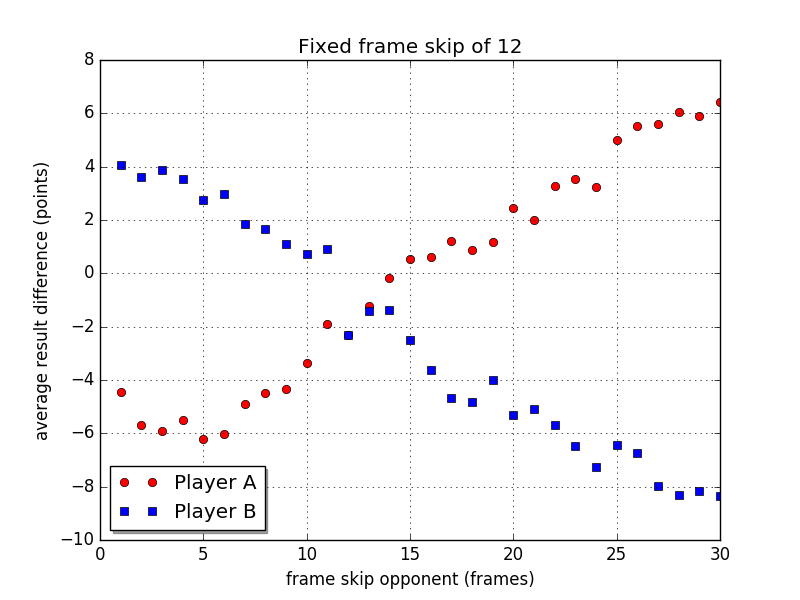
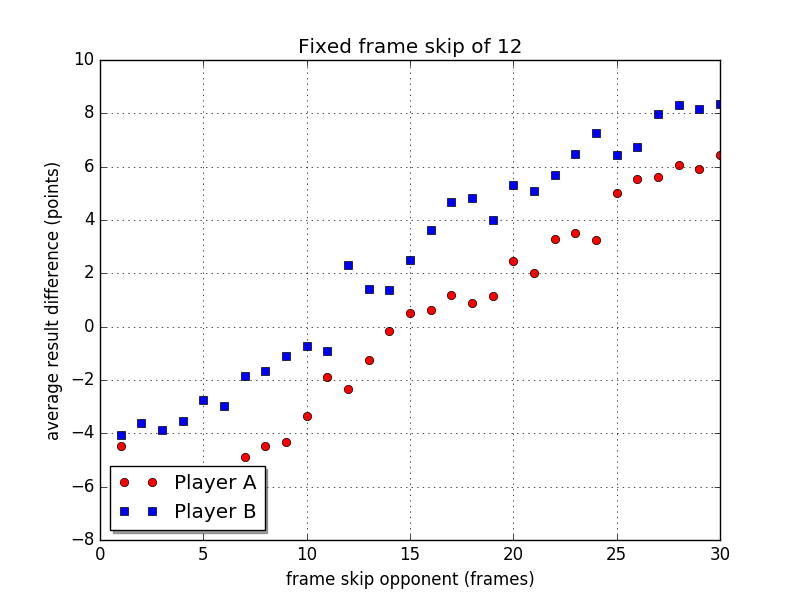
inverted score for b in the plots

diff --git a/plots.py b/plots.py
@@ -51,7 +51,7 @@ def main():
         average_difference_B = []
         for i in frame_skip_opponent:
             average_difference_A.append(average.get((fixed_frame_skip,i))[2])
-            average_difference_B.append(average.get((i,fixed_frame_skip))[2])
+            average_difference_B.append(-average.get((i,fixed_frame_skip))[2])
         plot_frame_skip(frame_skip_opponent, average_difference_A, average_difference_B, fixed_frame_skip)
 
     # calculate and output the total scores and relate the total difference in % to the total of all points scored
